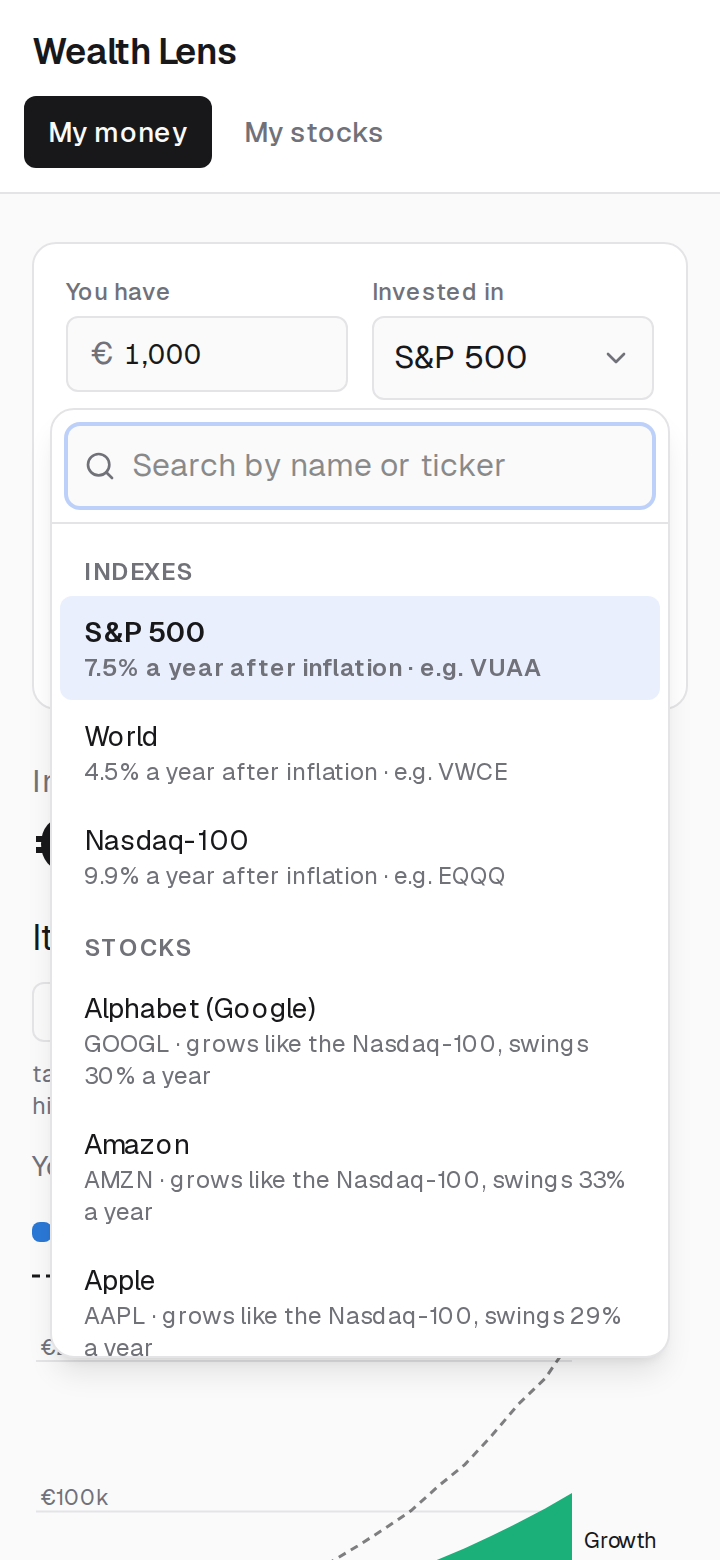
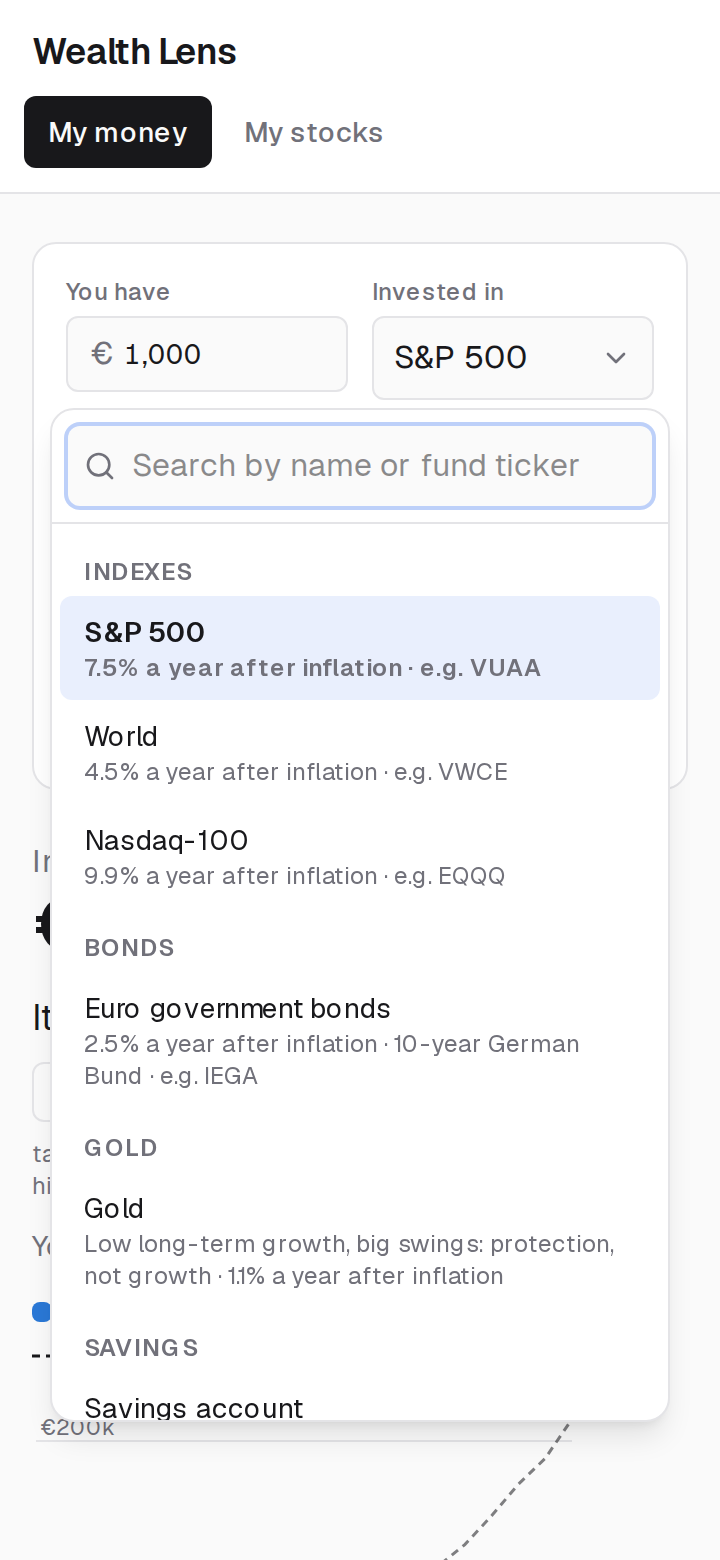
README and screenshots: projectable assets, editable assumptions, portfolio
The README describes what can be projected now (indexes, euro government
bonds, gold, a savings account, Custom growth, mixes, My portfolio) and
why single stocks are not, the standard assumptions and how to change
them, the normal distribution for changed figures, the reference
inflation by country, the bond and gold series with their sources and
limits, data file version 6 and its conversions, and the code map.

Screenshots at 360 px and desktop, same profile (EUR 10,000 + EUR 300 a
month, 20 years): the S&P 500, the 60/40 template, gold and a savings
account; the Edit panel with custom figures; an own portfolio. The old
ones of a projected single stock are gone with the feature.

Claude-Session: https://claude.ai/code/session_01D4XKtBepk1M5ngN7aQPhxj

diff --git a/projects/wealth-lens/README.md b/projects/wealth-lens/README.md
@@ -29,22 +29,35 @@ son resultados en posiciones fijas, y las metas son opcionales. La app no
 supone nada sobre la vida del usuario: no pregunta país, ni si alquila o
 es propietario, ni qué quiere hacer con su dinero. Nada se guarda ni se
 envía, y la app no llama a ningún servicio mientras se usa. La lógica
-vive en funciones puras con unos 420 tests unitarios (Vitest). Todavía
-sin validar con uso propio sostenido.
+vive en funciones puras con unos 470 tests unitarios (Vitest). Todavía
+sin validar con uso propio sostenido. Solo se proyecta lo que tiene una
+historia larga y un rango conocido; nada se presenta como predecible, y
+todo supuesto viene relleno con un valor estándar documentado y se puede
+cambiar.
 
 - **My money — `/`**, de arriba abajo:
   1. **La calculadora**: una tarjeta con cuatro campos: *You have* (€),
      *You add each month* (€, con − / + de €50), *Invested in* y *For
      (years)* (1-60, con − / + de un año; los botones se aplican al
-     instante). *Invested in* abre la lista completa, agrupada y con
-     buscador por nombre o ticker: Indexes (S&P 500, World, Nasdaq-100),
-     Stocks (las 12 de `instruments.json`, con cuánto oscilan), My
-     portfolio (si hay holdings) y "A mix…" (ver abajo). Arranca con valores
-     reales editables (€1.000, €200, S&P 500, 20 años), así que hay
-     resultado desde el primer segundo. Se recalcula cuando el usuario
-     termina de escribir (500 ms sin teclear, al salir del campo o con
-     Enter), nunca con cada tecla; tras un cambio se marcan un momento
-     solo las cifras que cambiaron y nada cambia de sitio.
+     instante). *Invested in* abre la lista, agrupada y con buscador por
+     nombre o ticker de fondo: Indexes (S&P 500, World, Nasdaq-100), Bonds
+     (bonos gubernamentales de la zona euro), Gold ("Low long-term growth,
+     big swings: protection, not growth"), Savings (cuenta de ahorro),
+     Custom growth, My portfolio (si hay holdings) y "A mix…" (con
+     plantillas 100% stocks, 80/20 y 60/40). Las acciones sueltas no se
+     proyectan. Arranca con valores reales editables (€1.000, €200, S&P
+     500, 20 años), así que hay resultado desde el primer segundo. Se
+     recalcula cuando el usuario termina de escribir (500 ms sin teclear,
+     al salir del campo o con Enter), nunca con cada tecla; tras un cambio
+     se marcan un momento solo las cifras que cambiaron y nada cambia de
+     sitio. Debajo, los supuestos en una línea ("7.5% a year after
+     inflation · swings ±16% · 1988–2022") con **Edit**: crecimiento anual
+     (con conmutador *After inflation (real)* / *Before inflation
+     (nominal)*), oscilación e inflación, cada uno con su estándar al
+     lado, y *Prices of* (país, Países Bajos por defecto), que rellena la
+     inflación. Un cambio marca la línea como **Custom** y aparece *Reset to
+     standard*; un "i" plegado explica cómo usan las simulaciones esas
+     cifras.
   2. **El resultado**, siempre en el mismo sitio: "In 20 years you'll have
      €112,288" (grande); "It could pay you €374/month" con un selector
      pequeño de retiro (3/4/5 %) y cuántas historias aguantó 30 años
@@ -74,16 +87,21 @@ sin validar con uso propio sostenido.
      su fuente al tocarlas y un "+" para añadirlas a My goals).
 - **My stocks — `/stocks`** (antes Charts): ganancia, holdings (añadir,
   editar, importar CSV), cómo se movió cada uno, y los 3 ETFs (VUAA,
-  VWCE, EQQQ) y 12 acciones grandes con su gráfico, su pasado ("past, not
-  a forecast") y "Use as my investment". `/charts` y `/fire` redirigen.
+  VWCE, EQQQ) y 12 acciones grandes con su gráfico y su pasado ("past, not
+  a forecast"). Un ETF puede ser la inversión ("Use as my investment");
+  una acción no se proyecta sola, y su fila dice cómo cuenta en My
+  portfolio. `/charts` y `/fire` redirigen.
 
 Limitaciones conocidas: no convierte entre monedas (la meta, el ingreso
 y la cartera ponderada solo cuentan holdings en EUR); las ganancias
 realizadas (ventas) no se muestran; el costo de vida es por país (las
 ciudades varían mucho); Yahoo y Stooq son fuentes no
 oficiales que pueden fallar (el Action conserva los datos anteriores);
-los retornos de los índices están en dólares y se comparan en 1988–2022,
-porque el S&P 500 de Shiller llega a 2022; el Nasdaq-100 es solo precio.
+los retornos de los índices y el oro están en dólares (después de la
+inflación de EE. UU.) y los bonos en euros (después de la alemana), y todo
+se compara en 1988–2022, porque el S&P 500 de Shiller llega a 2022; el
+Nasdaq-100 es solo precio. Las series de bonos y oro se introdujeron a
+mano desde las cifras publicadas (ver "Retornos").
 
 ## Arquitectura
 
@@ -101,70 +119,88 @@ porque el S&P 500 de Shiller llega a 2022; el Nasdaq-100 es solo precio.
   estáticos del propio sitio (ver "Precios diarios"); los retornos de
   los índices y el costo de vida son JSON dentro del bundle.
 - Un solo plan (`Plan` en `src/lib/types.ts`): dos importes, la
-  inversión, los años, la tasa de retiro, la inflación y las metas (una
-  lista, vacía al empezar). `src/lib/calculator.ts` deriva de él todo lo
+  inversión, los años, la tasa de retiro, *Prices of*, lo que el usuario
+  cambió de los supuestos (crecimiento real o nominal, oscilación,
+  inflación; `null` = estándar) y las metas (una lista, vacía al empezar). `src/lib/calculator.ts` deriva de él todo lo
   que se ve (resultado, metas, tabla de países, compras) y
   `src/hooks/use-calculation.ts` lo calcula una vez por cambio para todas
   las secciones (medido como `performance.measure("wealth-lens:report")`:
-  0,3 ms por cambio con un índice; con una mezcla, menos de 16 ms incluso la
-  primera vez, porque al abrir la lista se precalculan en ratos libres las
-  tasas de éxito de cada acción y los sorteos de las mezclas). El archivo
-  de datos va por la versión 5 (las metas mensuales "income" de la 4 pasan
-  a *A monthly amount* con su nombre como etiqueta; la mezcla viaja en
-  el archivo) y lee las anteriores: la misión guardada (v3), la conexión
+  0,2-0,3 ms por cambio con un activo; 2-10 ms con una mezcla, cifras
+  propias o la cartera, ver "Velocidad"). El archivo de datos va por la
+  versión 6: lleva *Prices of*, los supuestos cambiados y, en cada holding,
+  a qué activo se asignó si el usuario lo cambió. Lee las anteriores: un
+  índice (v1-v5) es ese activo; una acción proyectada sola (v5) pasa a My
+  portfolio si el archivo la tiene, si no a su índice, y las acciones de
+  una mezcla cuentan como su índice, cada cambio con un aviso de una línea
+  bajo "Load my data"; un % propio pasa a Custom growth; una inflación
+  distinta del antiguo 2 % queda como inflación escrita. Las metas
+  mensuales "income" de la v4 pasan a *A monthly amount* con su nombre
+  como etiqueta; la misión guardada (v3), la conexión
   fijada (v2) o la meta en euros (v1) pasan a ser la primera meta de My
   goals, y los elementos propios las siguientes. "Stop working" se
   convierte en vivir en el país que aquella versión preguntaba, con
   vivienda si alquilaba; lo que no se puede decir sin suponer un país
   propio (4 días, media jornada, "la app elegía") se omite.
-- En qué crece el plan (`src/lib/investment.ts`):
-  - **Un índice**: su promedio real en el periodo común (ver abajo); el
-    Monte Carlo sortea sus años.
-  - **Una acción** (`src/lib/volatility.ts`): crece al promedio de su
-    índice de referencia, dicho en la línea de supuestos ("Growth:
-    Nasdaq-100 average … One stock's future can't be predicted."), pero
-    oscila como ella: los años del índice se estiran alrededor de su media
-    (en logaritmos) hasta tener la volatilidad de la acción, calculada de
-    sus cierres diarios. La media geométrica es la del índice, así que la
-    proyección y, para una suma invertida una vez, la mediana coinciden; la
-    banda se ensancha y la tasa de retiro dura menos (NVIDIA: 50 % al año
-    frente al 30 % de los años del Nasdaq-100; €10.000 a 20 años: misma
-    mediana, percentil 10 de €3.400 en vez de €11.100). Con aportes
-    mensuales la mediana simulada sube algo con la dispersión (los años
-    comprados barato pesan más: NVIDIA con €300/mes, un 15 % a 20 años);
-    la cifra principal, que es la proyección, es la misma. Con menos de 3 años de datos se toma el
-    doble de la volatilidad del índice (factor documentado en el código) y
-    la página lo dice. Su pasado se muestra aparte: "Past 10 years: +63% a
-    year (price, before inflation). Past, not a forecast.". Las etiquetas dicen el modelo exacto
-    ("simulations using Nasdaq-100 years scaled to NVIDIA's volatility").
+- En qué crece el plan (`src/lib/assets.ts`, `src/lib/investment.ts`).
+  Solo activos con historia larga y un rango conocido; los supuestos
+  estándar salen de los datos y siempre se pueden cambiar:
+  - **Un índice, bonos o el oro**: su crecimiento medio después de
+    inflación en 1988–2022 y su oscilación (desviación de los retornos
+    anuales en logaritmos); el Monte Carlo sortea sus años históricos.
+  - **Cuenta de ahorro**: un tipo típico de 1,5 % (cifra redonda para
+    cuentas de ahorro a la vista en euros en 2025–2026, por debajo del 2 %
+    de depósito del BCE desde junio de 2025; editable) menos la inflación
+    de *Prices of*: −0,5 % al año con la de Países Bajos. Sin oscilación:
+    el resultado dice cuántos años dura el retiro ("it runs out after 23
+    years") y el gráfico no dibuja banda.
   - **Una mezcla** (`src/lib/mix.ts`, documentado arriba del archivo y en
-    un "i" plegado): hasta 10 partes (índices y acciones) con % que suman
-    100, indicador del total, "Split evenly" y un conmutador *Let weights
-    drift* (por defecto) / *Rebalance every year*. Crecimiento: la media
-    ponderada de los índices de referencia. Incertidumbre: 1.000 caminos
-    de 60 años; cada año se sortea un año histórico común a los tres
-    índices (se mueven juntos como lo hicieron) y cada acción es su índice
-    × β más una parte propia, con su volatilidad y su correlación semanal
-    con el ETF del índice; dos acciones van juntas lo que fueron sus
-    precios semanales. Junto al resultado: "Range (8 in 10)" y "Worst
-    year in the data" (su peor año natural, reequilibrado cada enero, en
-    los años con datos de todas las partes, después de inflación), con las
-    mismas cifras del S&P 500 solo en pequeño. Ninguna optimización ni
-    sugerencia de pesos.
-  - **My portfolio**: una mezcla de los holdings por su valor en EUR, cada
-    acción de la lista como ella misma, los ETF por su índice.
-  - **Un % propio**: los altibajos del S&P 500 escalados a ese promedio.
+    un "i" plegado): hasta 10 de esos activos con % que suman 100,
+    indicador del total, "Split evenly", plantillas (100 % acciones,
+    80/20, 60/40: World y bonos euro, puntos de partida de manual, no
+    consejo) y *Let weights drift* / *Rebalance every year*. Crecimiento:
+    la media ponderada. Incertidumbre: 1.000 caminos de 60 años; cada año
+    se sortea un año histórico común a todos los activos (acciones, bonos y
+    oro se mueven juntos como lo hicieron; en 2022 cayeron acciones y
+    bonos a la vez). Junto al resultado: "Range (8 in 10)" y "Worst year
+    in the data", con las mismas cifras del S&P 500 solo, sobre los mismos
+    años. Ninguna optimización ni sugerencia de pesos.
+  - **My portfolio** (`src/lib/portfolio.ts`): "Simple projection: each
+    stock grows like its index. Stocks can't be predicted." Cada holding
+    en EUR crece como un activo: una acción de la lista, el índice de su
+    mercado (tecnológicas de EE. UU. el Nasdaq-100, otras de EE. UU. el
+    S&P 500, europeas World); un fondo, lo que tiene (índice, bonos, oro,
+    por `trackers`); otro ticker, World marcado como suposición. El
+    usuario lo cambia en la calculadora y queda guardado en el holding. Se
+    pondera por valor y se simula con el motor de mezclas; una acción de
+    la lista conserva sus propios altibajos (volatilidad de sus cierres
+    diarios, correlación semanal con el ETF de su índice).
+  - **Custom growth**: el % anual y la oscilación que escriba el usuario
+    (arranca en los del S&P 500), sin ningún activo detrás.
+  - **Supuestos cambiados**: con el crecimiento o la oscilación del
+    usuario la historia ya no los describe, así que cada año se sortea de
+    una normal en logaritmos, log(1 + r) ~ N(log(1 + g), σ²) (el año típico
+    crece exactamente g; `src/lib/normal.ts`, 2.000 cuantiles
+    equiespaciados); con oscilación 0, todos los años iguales. Cambiar solo
+    la inflación no toca las simulaciones: solo convierte nominal ↔ real.
+- **Inflación por país**: cada país de `cost-of-living.json` lleva una
+  inflación de referencia con su base y fecha (septiembre de 2026): el
+  objetivo de su banco central (el 2 % del BCE para los países del euro;
+  el centro del rango cuando es un rango), que es hacia donde convergen
+  las previsiones a largo plazo como las del FMI; Malasia y Marruecos, sin
+  objetivo numérico, llevan su media 2015–2024 aproximada.
 - Velocidad: las dos pantallas se prerenderizan con sus valores de
-  llegada (la calculadora con su resultado, la lista de acciones), así
-  que se ven antes de que corra el JavaScript. Las tasas de éxito de
-  3/4/5 % de cada índice están precalculadas (`src/lib/success-table.ts`,
-  un test las recalcula exactas), así que la primera pantalla no simula
-  nada; el gráfico calcula su banda (~7 ms) después de hidratar, en una
-  caja de la misma altura. Los hallazgos y las compras se calculan al
-  abrirlos. Los parsers de CSV se cargan al elegir un archivo, y la
-  librería de gráficos y el historial de precios al abrir un gráfico. El
-  Monte Carlo guarda las trayectorias aleatorias por historia (el saldo es
-  lineal en el capital y el aporte), así que teclear no vuelve a simular.
+  llegada, así que se ven antes de que corra el JavaScript. Las tasas de
+  éxito de 3/4/5 % de los cinco activos con historia están precalculadas
+  (`src/lib/success-table.ts`, un test las recalcula exactas). Los
+  retornos simulados de una mezcla se guardan por parte (cambiar un peso o
+  a qué crece un holding reutiliza el resto), la simulación de éxito
+  reutiliza los mismos índices sorteados para cualquier conjunto de
+  cifras propias, y en cuanto el usuario empieza a usar la página, en
+  ratos libres y en pasos de menos de 50 ms, se precalculan los sorteos,
+  los años simulados de cada activo y una primera pasada de una mezcla,
+  de una cartera con una acción y de cifras propias (`src/lib/warm.ts`).
+  Los hallazgos y las compras se calculan al abrirlos; los parsers de CSV,
+  la librería de gráficos y el historial de precios, al usarlos.
 - Sin credenciales de bróker ni APIs de pago — respeta la regla de
   costo cero de seed-lab.
 
@@ -204,7 +240,6 @@ años elegidos; los de "llegar" hablan de la primera meta cuando está a
 | Inflación | 5+ años y un resultado de €1.000 o más | lo que mostrará la cuenta en euros de ese año (la app cuenta en euros de hoy) |
 | Coste de esperar | 2+ años y empezar un año más tarde cuesta ≥ €500 y ≥ 2 % | € de menos al final |
 | Comisiones | 5+ años y la diferencia ≥ €1.000 | fondo al 1 % vs al 0,2 % |
-| Pasado de una acción | se invierte en una acción | su crecimiento pasado vs su índice |
 | Duplicación | crecimiento ≥ 2 % al año | cada cuántos años se duplica |
 
 **Compras** (`src/data/connections.json` + `src/lib/connections.ts`): 19
@@ -328,12 +363,13 @@ A mano en local (necesita salida a internet): `npm run update-prices`.
 - `currency`: moneda en la que cotiza ese listado (si Yahoo informa otra,
   el job lo rechaza).
 - `kind` + `index`: un ETF indica el índice que sigue; una acción, el
-  índice más cercano con el que se proyecta (`sp500`, `world` o `nasdaq100`).
+  índice de su mercado, con el que crece en My portfolio (`sp500`,
+  `world` o `nasdaq100`). Una acción nunca se proyecta sola.
 
 Los tests (`src/lib/market-data.test.ts`) validan la lista; el próximo
-run del Action descarga el nuevo instrumento. Para que la cartera
-ponderada reconozca otro ETF sin descargar sus precios, basta con añadir
-su ticker a `trackers` en el mismo archivo.
+run del Action descarga el nuevo instrumento. Para que My portfolio
+reconozca otro fondo sin descargar sus precios, basta con añadir su
+ticker a `trackers` en el mismo archivo (índices, `bonds` o `gold`).
 
 **Retornos de los índices** (`src/data/*-real-returns.json`, con fuente y
 fecha): S&P 500 1928–2022 (Robert Shiller, retorno total real), MSCI World
@@ -345,16 +381,37 @@ y se verificaron contra los retornos anualizados a 3/5/10 años de las
 fichas de MSCI y contra los % anuales publicados; los tests recalculan
 cada retorno real desde las cifras nominales guardadas.
 
-**Periodo común.** Los tres índices se comparan sobre los mismos años, el
-periodo más largo que cubren los tres: hoy **1988–2022** (35 años;
+**Bonos y oro** (introducidos a mano desde las cifras publicadas: sus
+fuentes no se podían descargar desde el entorno que los compiló; cada
+archivo guarda las cifras de origen y los tests recalculan cada año):
+
+- `euro-bonds-real-returns.json`, **bonos gubernamentales de la zona
+  euro**, 1988–2024: un Bund alemán a 10 años, la referencia de la zona.
+  Retorno total por el método de vencimiento constante (el de Shiller y
+  Damodaran para el Tesoro de EE. UU.): se compra a la par al rendimiento
+  medio de diciembre y se valora un año después, con 9 años por delante,
+  al rendimiento del diciembre siguiente, más el cupón. Rendimientos de la
+  OCDE (serie IRLTLT01DEM156N, datos del Bundesbank); inflación alemana de
+  diciembre a diciembre (Destatis; Alemania Occidental hasta 1991). Las
+  medias de diciembre suavizan el cierre del año (2022: −19,8 % nominal
+  aquí, unos −22 % de cierre a cierre).
+- `gold-real-returns.json`, **oro**, 1988–2024: el precio LBMA de la
+  última fijación de cada año en dólares (publicado por la LBMA y tabulado
+  por el World Gold Council), después de la misma inflación de EE. UU. que
+  los índices. Un año en que la fijación de la mañana y la de la tarde
+  difieren puede desviarse un 1 %.
+
+
+**Periodo común.** Los cinco activos se comparan sobre los mismos años, el
+periodo más largo que cubren todos: hoy **1988–2022** (35 años;
 `COMMON_PERIOD` en `src/lib/indexes.ts`, calculado de los datos). Esas
-rentabilidades alimentan todo: palancas, proyecciones, cartera
-ponderada, % propio y Monte Carlo, y la app muestra el periodo junto a
-cada cifra. Promedio real anual en 1988–2022: S&P 500 7,5 %, World
-4,5 %, Nasdaq-100 9,9 % (solo precio: la tarjeta dice "no dividends";
-los dividendos sumarían aproximadamente un 1 % anual). Los datasets
-completos (1928–2022, 1988–2024, 1986–2024) se conservan y se validan
-igual. Para alargar el periodo hace falta el S&P 500 de 2023 en adelante
+rentabilidades alimentan todo: palancas, proyecciones, mezclas, cartera
+y Monte Carlo, y la app muestra el periodo junto a cada cifra. Promedio
+real anual y oscilación en 1988–2022: S&P 500 7,5 % (±16 %), World 4,5 %,
+Nasdaq-100 9,9 % (solo precio: la tarjeta lo dice; los dividendos
+sumarían aproximadamente un 1 % anual), bonos euro 2,5 % (±8 %; peor año
+2022, −26 % después de inflación) y oro 1,1 % (±14 %; peor año 2013). Los
+datasets completos se conservan y se validan igual. Para alargar el periodo hace falta el S&P 500 de 2023 en adelante
 con el mismo método (enero a enero, de los datos de Shiller).
 
 ## Cómo correrlo
@@ -397,10 +454,18 @@ ingreso lo paga, filas por defecto), las metas (cada tipo, varias,
 independientes, orden estable al añadir y quitar, tope de 60 años con el
 aporte para 30), las compras, el motor de hallazgos (cada regla: cuándo
 aparece, cuándo no y su número, con y sin metas), las tasas de éxito
-precalculadas (recalculadas exactas), el plan v4 y la conversión de
-archivos v1, v2 y v3 a metas, la ponderación de la cartera por índice,
-los datasets de índices (cada retorno real recalculado; MSCI contra sus
-fichas), el archivo de datos (ida y vuelta, archivos dañados o ajenos),
+precalculadas (recalculadas exactas), el plan v6 y la conversión de
+archivos v1 a v5 (metas; una acción proyectada sola que pasa a My
+portfolio o a su índice con su aviso; un % propio y una inflación), los
+datasets (cada retorno real recalculado desde las cifras de origen: MSCI
+contra sus fichas, bonos desde los rendimientos y el IPC, oro desde los
+precios LBMA; la inflación de referencia de cada país), los supuestos
+editables (real/nominal con la inflación de cada país, oscilación, solo
+inflación, reset, Custom growth, la normal: mediana y dispersión), las
+plantillas 60/40 y 80/20, las mezclas con bonos, oro y ahorro (el mismo
+año sorteado para todos, peor año 2022 para 60/40, efecto de
+diversificar), la asignación de holdings a activos, el archivo de datos
+(ida y vuelta, archivos dañados o ajenos),
 la limpieza de datos antiguos, el importador de Trading 212, el parser de
 CSV, el precio automático desde datos estáticos o CSV (nunca pisa un
 precio escrito a mano), el Monte Carlo (semilla fija) y el costo de vida.
@@ -420,8 +485,9 @@ public/data/                   precios generados por el job (no editar a mano)
 src/
   app/                         rutas: / (My money), /stocks (My stocks);
                                /charts y /fire redirigen
-  components/                  money/ (calculadora, resultado, gráfico, metas,
-                               países, hallazgos, compras), stocks/, charts/,
+  components/                  money/ (calculadora, selector, supuestos, mezcla,
+                               cartera, resultado, gráfico, metas, países,
+                               hallazgos, compras), stocks/, charts/,
                                portfolio/ (holdings, CSV), ui/ (changed: marca
                                lo que cambió)
   hooks/                       use-app (estado), use-calculation (todo por cambio),
@@ -433,13 +499,18 @@ src/
     findings.ts         "What you should know": una regla por hallazgo
     connections.ts      la lista de compras, con fuentes
     simulation.ts       bandas de Monte Carlo y cachés de simulación
-    success-table.ts    tasas de éxito de 3/4/5 % precalculadas por índice
-    volatility.ts       una acción: el crecimiento de su índice, su propia volatilidad
+    success-table.ts    tasas de éxito de 3/4/5 % precalculadas por activo
+    assets.ts           lo que se puede proyectar: índices, bonos, oro, ahorro
+    investment.ts       supuestos estándar y cambiados: crecimiento, oscilación, simulación
+    assumptions.ts      la línea de supuestos y lo que muestra el panel Edit
+    normal.ts           años sorteados de una normal para cifras propias
+    portfolio.ts        a qué activo crece cada holding, ponderado por valor
     mix.ts              mezclas con pesos: modelo conjunto, deriva/reequilibrio, peor año
-    projections.ts      una sola entrada a bandas y tasas de éxito, sea índice, acción o mezcla
+    volatility.ts       la volatilidad propia de una acción (en My portfolio)
+    projections.ts      una sola entrada a bandas y tasas de éxito
+    warm.ts             lo que se precalcula en ratos libres
     step.ts             los botones − / + (pasos de €50 y de un año)
-    investment.ts       en qué crece el plan: índice, cartera ponderada, acción, % propio
-    indexes.ts          datasets de retornos reales de los 3 índices
+    indexes.ts          datasets de retornos reales: 3 índices, bonos euro, oro
     market-data.ts      lista curada + precios estáticos (formato en market-format.ts)
     auto-price.ts       precio actual de un holding desde datos estáticos o CSV
     data-file.ts        "Download my data" / "Load my data"
@@ -452,7 +523,8 @@ src/
     instruments.json            lista curada de ETFs y acciones
     sp500-real-returns.json     S&P 500 (Shiller)
     msci-world-real-returns.json, nasdaq100-real-returns.json
-    cost-of-living.json         dataset curado (30 países, EUR, con/sin alquiler)
+    euro-bonds-real-returns.json, gold-real-returns.json
+    cost-of-living.json         dataset curado (30 países, EUR, con/sin alquiler, inflación de referencia)
     connections.json            las compras, con fuente y fecha
 ```
 
